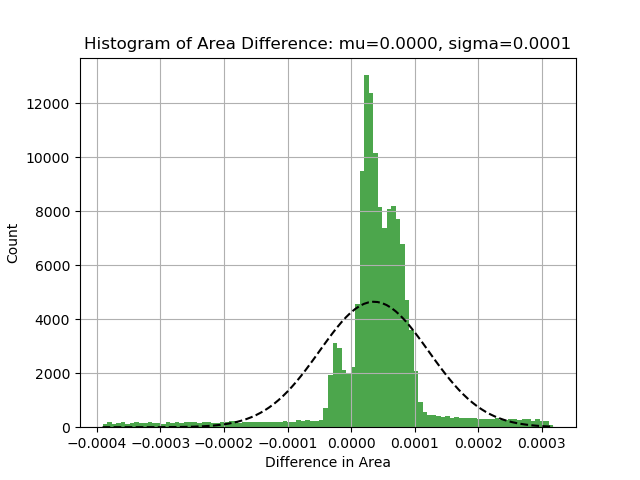
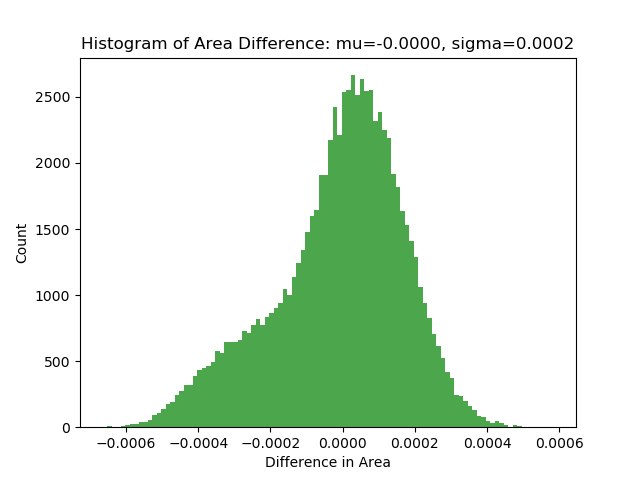
Updates

diff --git a/NM4_Fermilab/Plot_Histogram.py b/NM4_Fermilab/Plot_Histogram.py
@@ -4,13 +4,14 @@ import matplotlib.pyplot as plt
 import numpy as np
 from scipy.stats import norm
 
-file_path = 'Model Performance/v6/Results.csv'  
+file_path = 'Model Performance/v9/Results.csv'  
 df = pd.read_csv(file_path)
 
 if 'Area_Predicted' not in df.columns or 'Area_True' not in df.columns:
     raise ValueError("The CSV must contain 'Area_Predicted' and 'Area_True' columns.")
 
 df['Area_Diff'] = df['Area_Predicted'] - df['Area_True']
+abs_err = np.abs(df['Area_Predicted'] - df['Area_True'])
 
 plot_histogram(
     df['Area_Diff'], 
@@ -18,5 +19,16 @@ plot_histogram(
     'Difference in Area', 
     'Count', 
     'green', 
-    os.path.join(".", 'Histogram_Relative_Error.png')
+    os.path.join(".", 'Proton_Histogram_Area_Difference.png'),
+    plot_norm=False
+)
+
+plot_histogram(
+    abs_err, 
+    'Histogram of Absolute Error', 
+    'Absolute Error', 
+    'Count', 
+    'blue', 
+    os.path.join(".", 'Proton_Histogram_Absolute_Error.png'),
+    plot_norm=False
 )

diff --git a/NM4_Fermilab/Misc_Functions.py b/NM4_Fermilab/Misc_Functions.py
@@ -96,15 +96,17 @@ def print_optimized_params_with_names(params, param_names):
     for name, param in zip(param_names, params):
         print(f"{name:>16}: {param:16.5e}")
 
-def plot_histogram(data, title, xlabel, ylabel, color, save_path, num_bins=100):
+def plot_histogram(data, title, xlabel, ylabel, color, save_path, num_bins=100, plot_norm=True):
     n, bins, patches = plt.hist(data, num_bins, density=True, color=color, alpha=0.7)
     mu, sigma = norm.fit(data)
-    y = norm.pdf(bins, mu, sigma)
-    plt.plot(bins, y, '--', color='black')
+    
+    if plot_norm:
+        y = norm.pdf(bins, mu, sigma)
+        plt.plot(bins, y, '--', color='black')
+    
+    plt.title(f"{title}: mu={mu:.4f}, sigma={sigma:.4f}")
     plt.xlabel(xlabel)
     plt.ylabel(ylabel)
-    plt.title(f"{title}: mu={mu:.4f}, sigma={sigma:.4f}")
-    plt.grid(True)
+    plt.grid(False)
     plt.savefig(save_path)
     plt.close()
-
